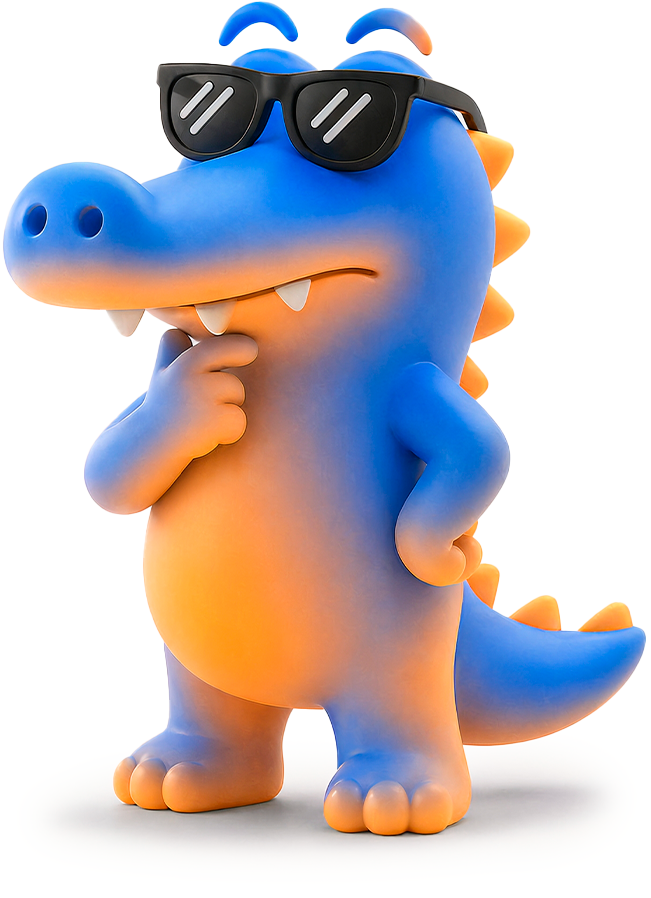
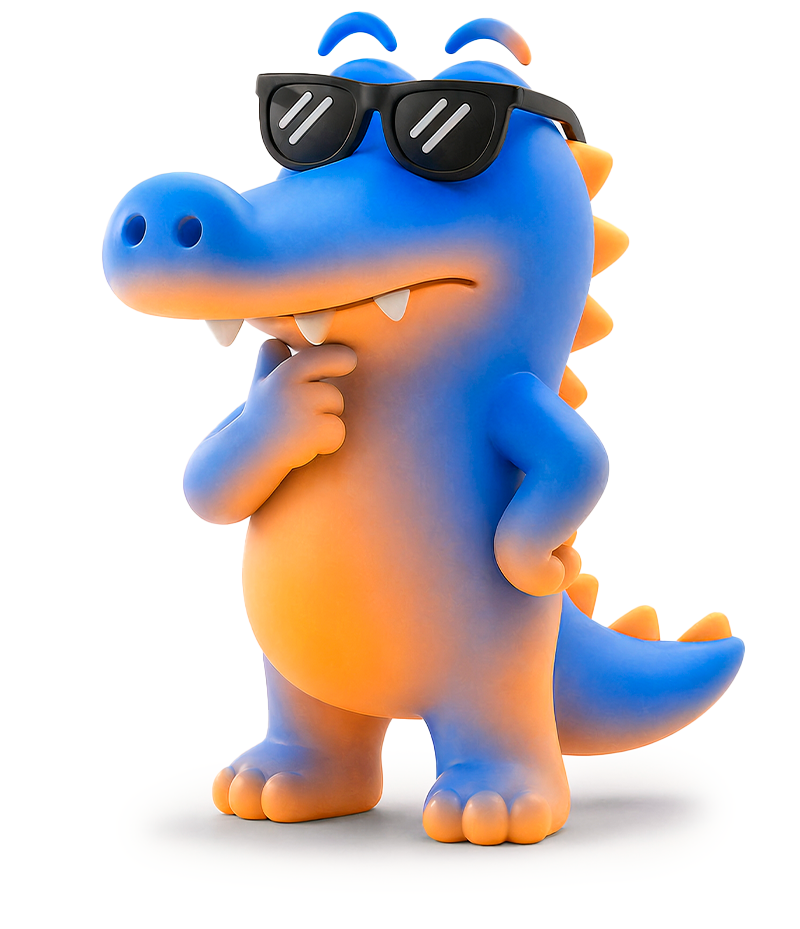
Fix: ilustraciones cocodrilo unificadas + referencia Ok.png actualizada

diff --git a/js/app.js b/js/app.js
@@ -33,9 +33,9 @@ const ICONS = {
 
 // ── Ilustraciones por estado (v2.1) ──
 const ESTADO_ILLUS = {
-  'piscina':         'assets/illustrations/Resolucion/Estados/V2.1/Ok-PNG.png',
-  'muy-agradable':   'assets/illustrations/Resolucion/Estados/V2.1/Ok-PNG.png',
-  'se-puede-salir':  'assets/illustrations/Resolucion/Estados/V2.1/Ok-PNG.png',
+  'piscina':         'assets/illustrations/Resolucion/Estados/V2.1/Ok.png',
+  'muy-agradable':   'assets/illustrations/Resolucion/Estados/V2.1/Ok.png',
+  'se-puede-salir':  'assets/illustrations/Resolucion/Estados/V2.1/Ok.png',
   'exigente':        'assets/illustrations/Resolucion/Estados/V2.1/Maybe.png',
   'no-recomendable': 'assets/illustrations/Resolucion/Estados/V2.1/No.png',
 };

diff --git a/index.html b/index.html
@@ -107,7 +107,7 @@
             <span class="bocadillo__line bocadillo__line--fit" id="nb-fit-title">—</span>
           </div>
         </div>
-        <img class="diagnosis__croc" src="assets/illustrations/Resolucion/Estados/V2.1/Ok-PNG.png" alt="">
+        <img class="diagnosis__croc" src="assets/illustrations/Resolucion/Estados/V2.1/Ok.png" alt="">
         <button class="btn-tech-info" id="btn-tech-info">Ver información técnica ↓</button>
 
         <!-- Bloques técnicos -->

diff --git a/css/styles.css b/css/styles.css
@@ -937,9 +937,9 @@ ul { list-style: none; }
 }
 
 .diagnosis__croc {
-  width: 189px;
+  width: 160px;
   display: block;
-  margin: 0 auto 0;
+  margin: 0 auto;
 }
 
 .btn-tech-info {
